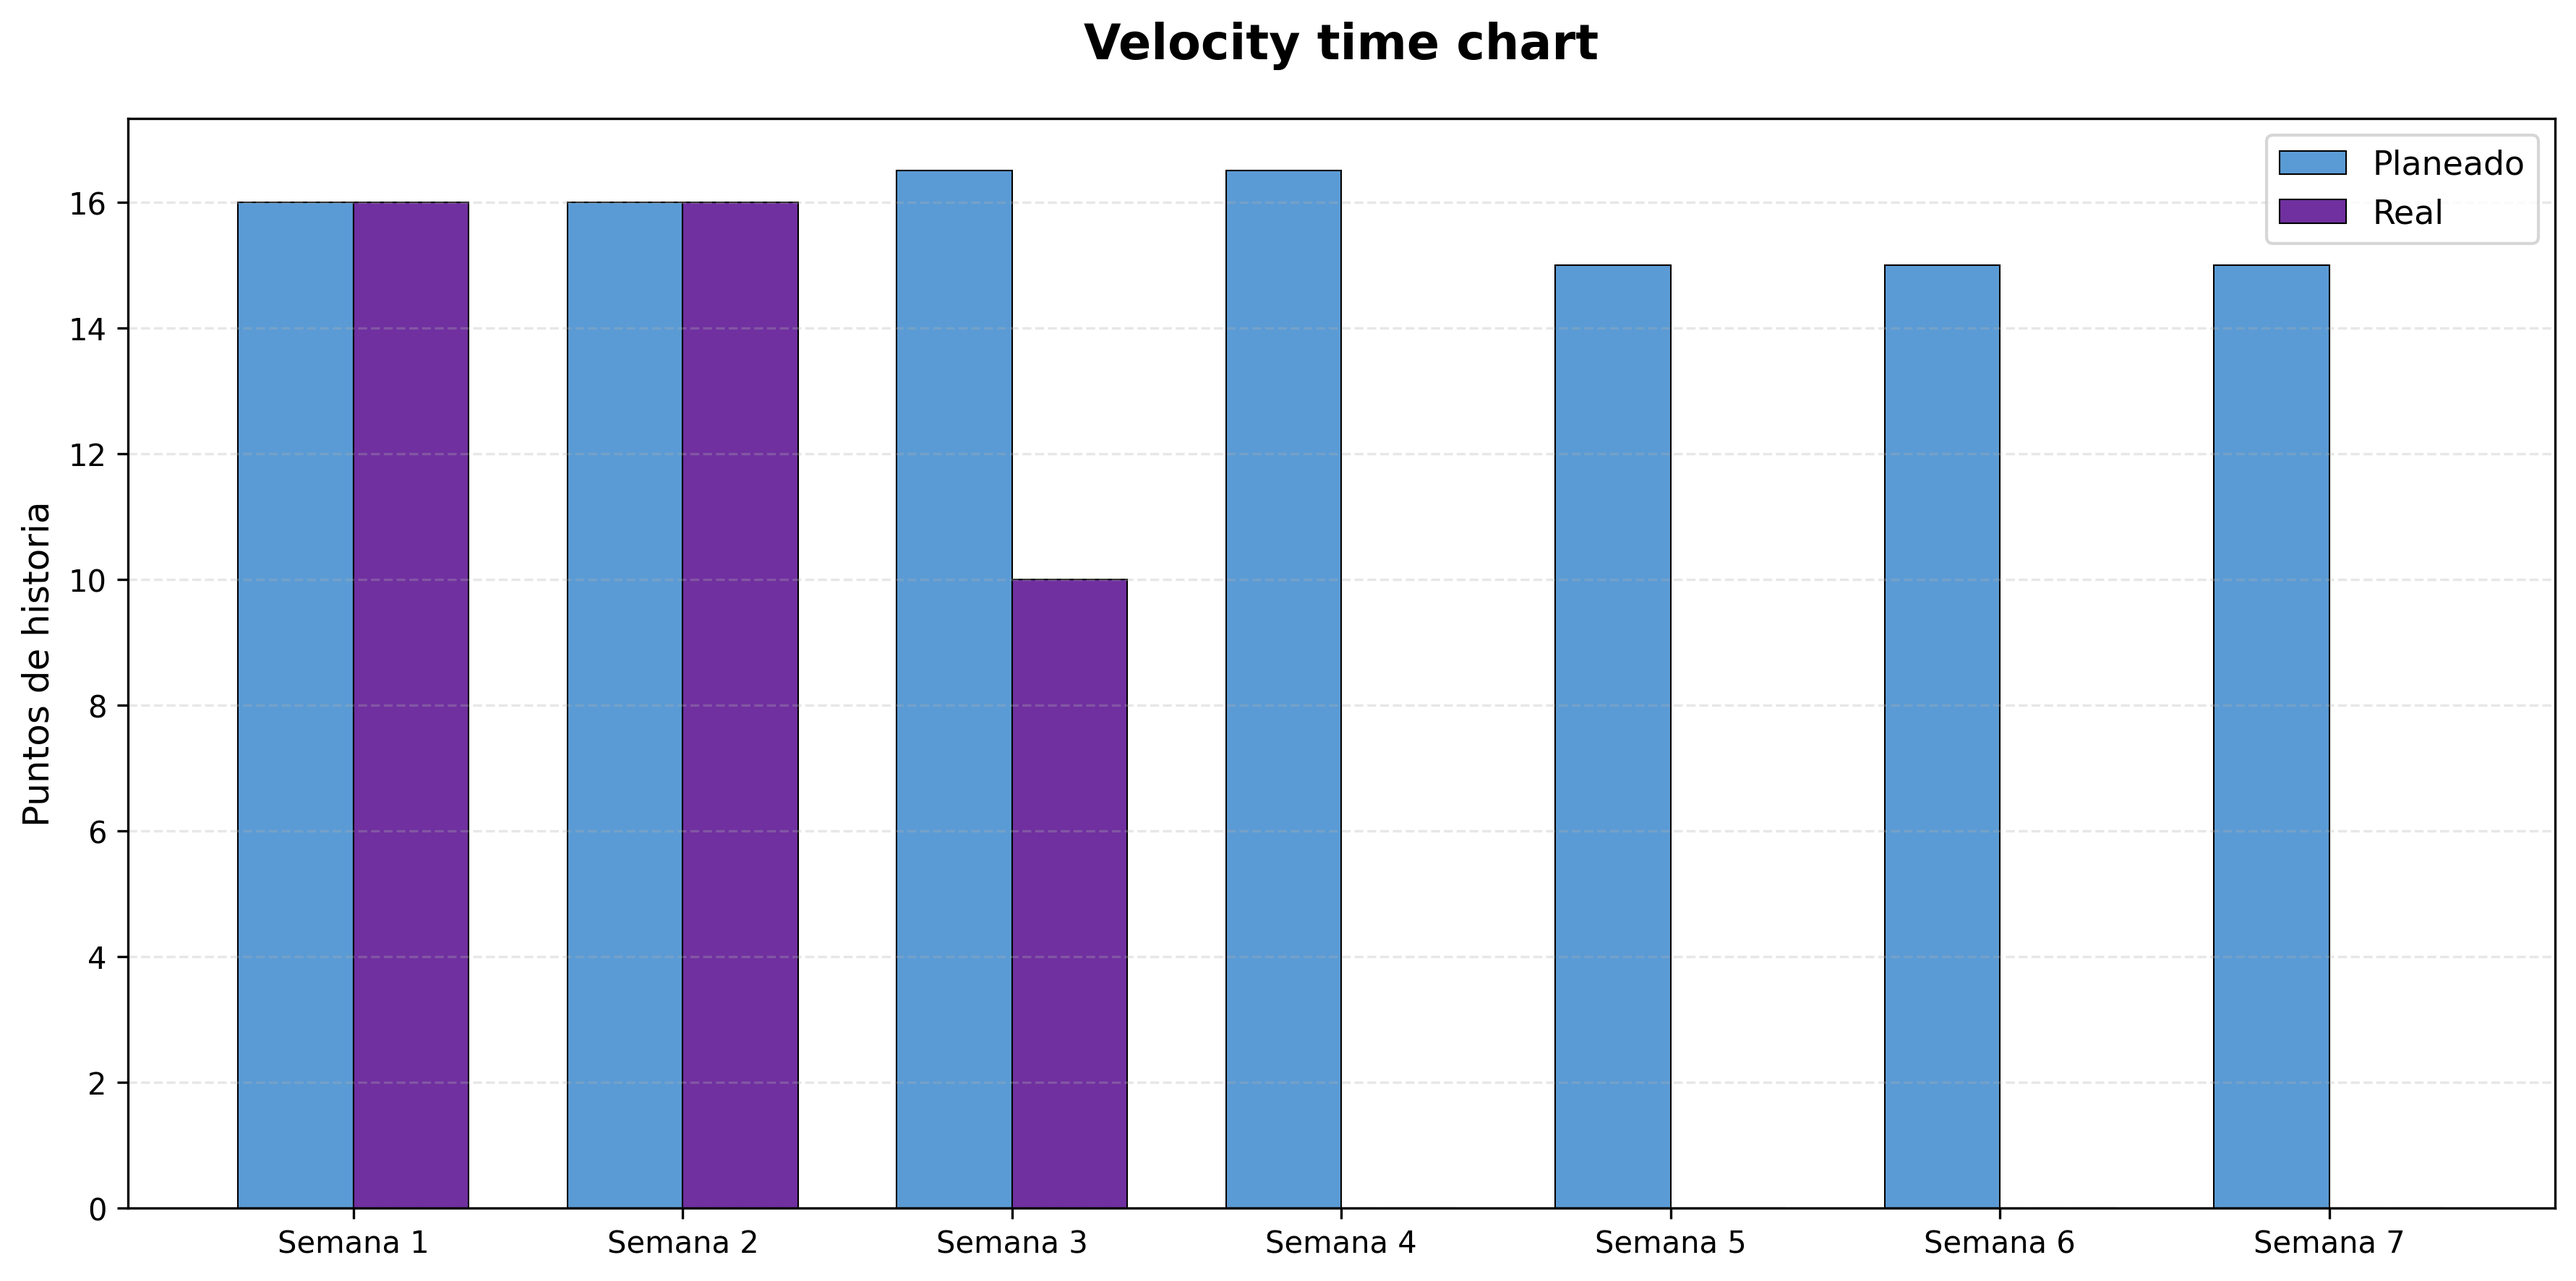
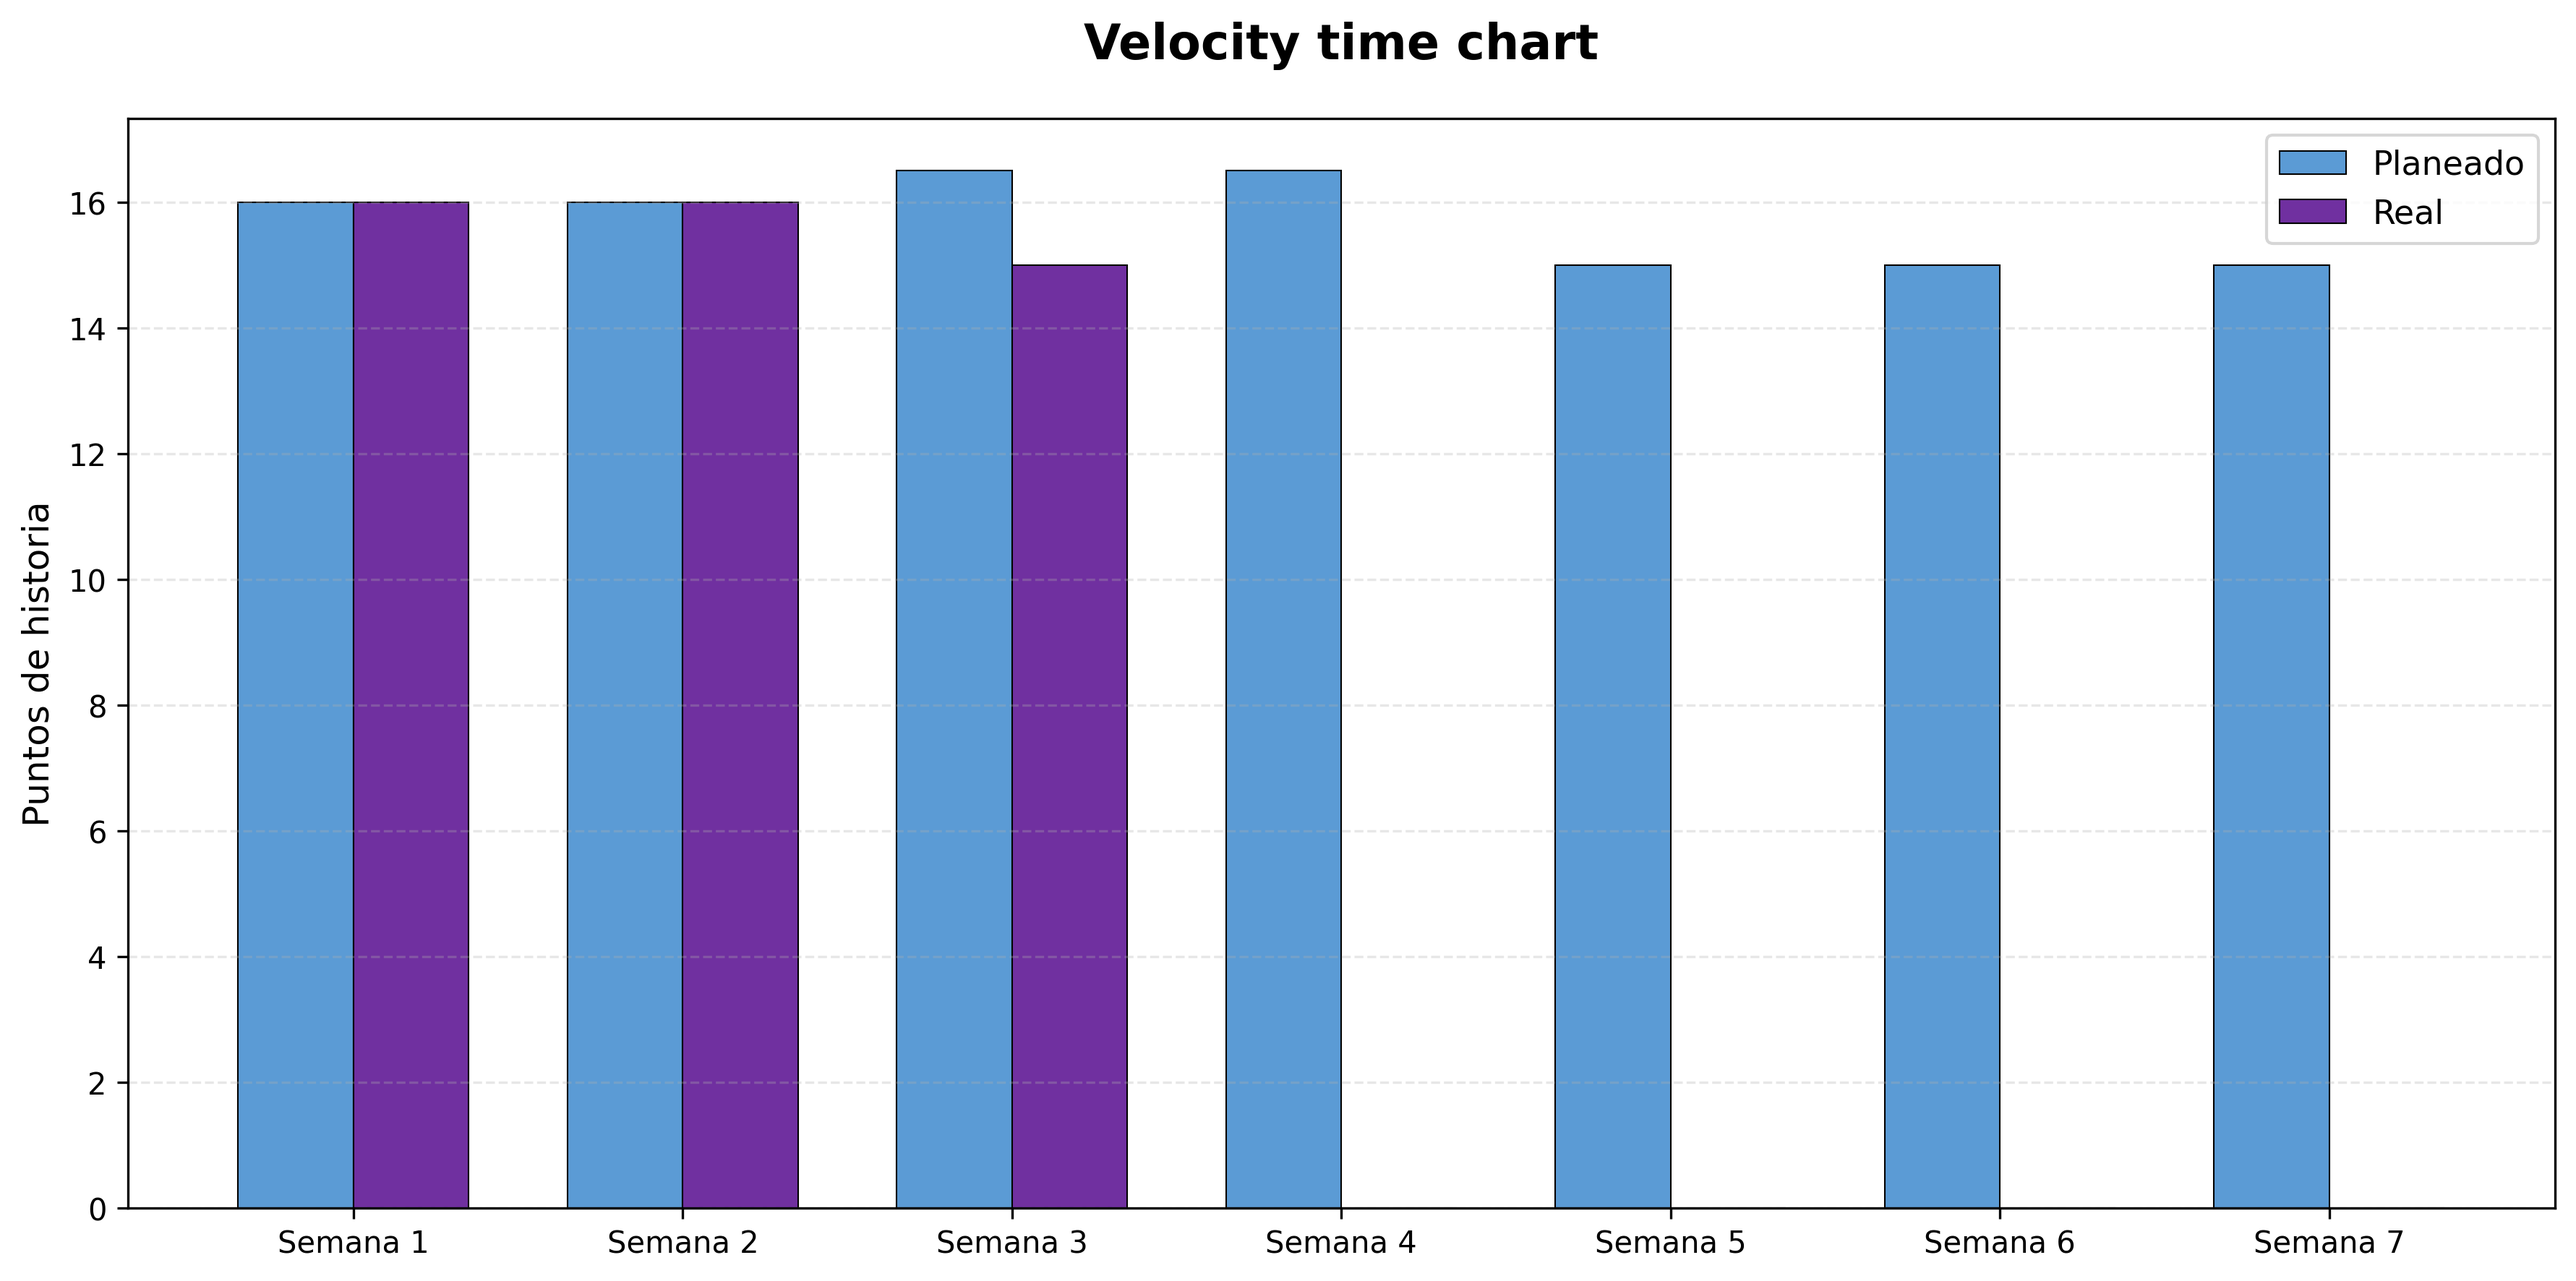
chore: update project charts [skip ci]

Changed region(s): [[0.3738, 0.1861, 0.4361, 0.4653]]

diff --git a/scripts-entregas/CHARTS.md b/scripts-entregas/CHARTS.md
@@ -1,19 +1,19 @@
 # Gráficas del proyecto no generadas por Jira - Proyecto Final MISO 202520 G2
 
-**Última actualización:** 2025-10-24 01:27:28 UTC
+**Última actualización:** 2025-10-26 01:01:27 UTC
 
 ## Resumen de métricas del proyecto
 
 ### Business value chart
-- **Valor total:** 33.0 / 100 puntos (33%)
-- **Historias completadas:** 10
-- **Valor restante:** 67.0 puntos
+- **Valor total:** 35.0 / 100 puntos (35%)
+- **Historias completadas:** 12
+- **Valor restante:** 65.0 puntos
 
 ### Velocity chart
 - **Semanas registradas:** 7
 - **Total planeado:** 110.0 puntos de historia
-- **Total completado:** 42.0 puntos de historia
-- **Velocidad promedio:** 6.0 puntos/semana
+- **Total completado:** 47.0 puntos de historia
+- **Velocidad promedio:** 6.7 puntos/semana
 
 ### Release burndown chart
 - **Alcance inicial:** 110 puntos de historia
@@ -82,6 +82,8 @@ Puntos de historia restantes al inicio de cada sprint vs burndown ideal.
 
 - **HUP-008** - 2025-10-20
 - **HUP-011** - 2025-10-23
+- **HUP-009** - 2025-10-25
+- **HUP-010** - 2025-10-25
 
 
 ---
